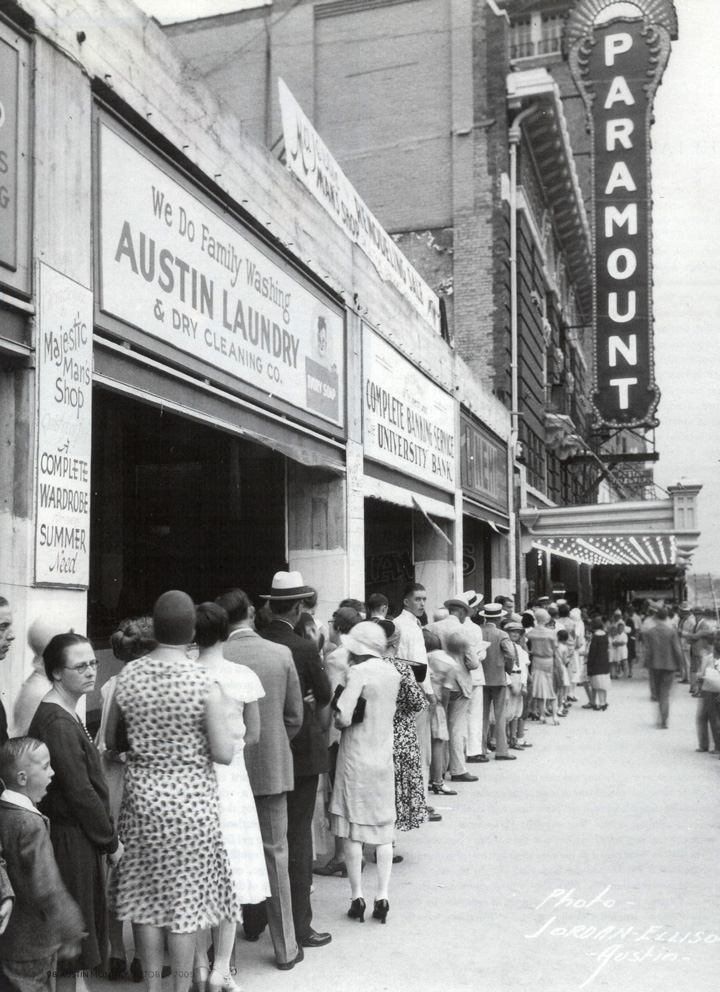
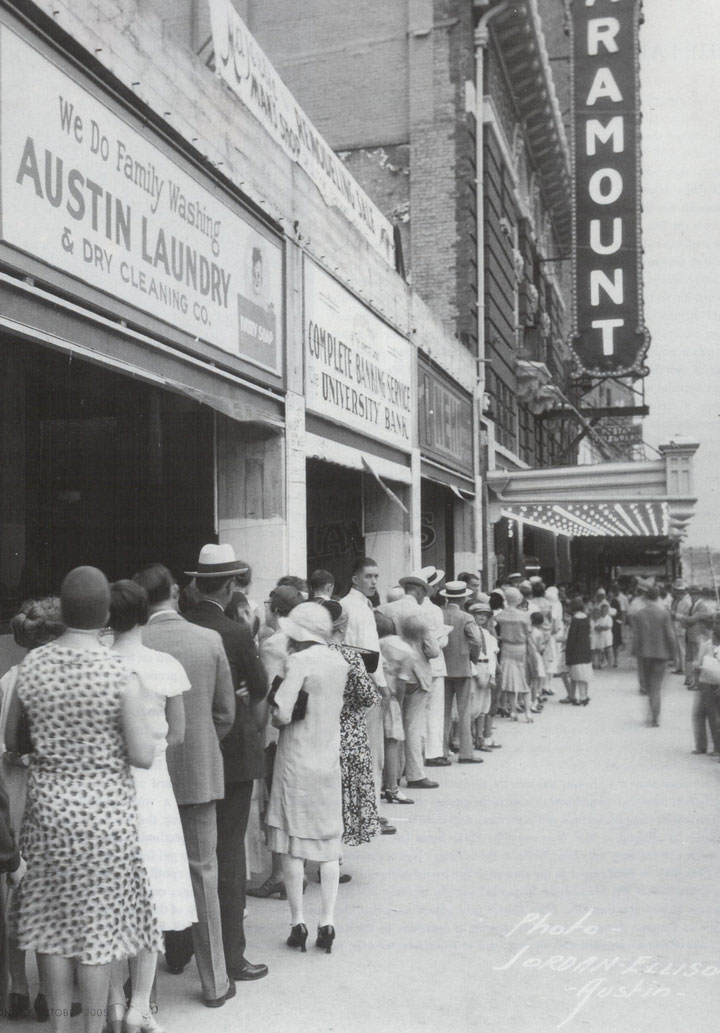
updating photos and crops

diff --git a/README.md b/README.md
@@ -1,9 +1,11 @@
-Paramount: Then and now template
+Then and now: Paramount
 =================================
+
+# This is a derivative of the then-and-now template
 
 [![Built with Grunt](https://cdn.gruntjs.com/builtwith.png)](http://gruntjs.com/)
 
-This project will become a new then-and-now template for Statesman. It uses the [twentytwenty](https://github.com/zurb/twentytwenty) package from Zurb.
+This is a new then-and-now template for Statesman. It uses the [twentytwenty](https://github.com/zurb/twentytwenty) package from Zurb.
 
 ## Requirements
 
@@ -13,25 +15,39 @@ This project will become a new then-and-now template for Statesman. It uses the 
 
 ## Setup
 
-When the template repo is made (and it isn't yet):
+* Download the zip to your machine
+* unzip it into the directory of your choosing
+
+At this point, you should be able to view the content through a browser in your localhost, as all the necessary files are in:
+
+* `dist/`: css and js files
+* `assets/`: example images and other assets
+* `index.php`: the content
+
+To make your project dev ready:
 
 ```
-$ curl -OL https://github.com/statesman/then-and-now/archive/master.zip
-$ unzip master.zip -d YOUR_PROJECT_NAME
-$ cd YOUR_PROJECT_NAME
+$ npm install
+$ bower install
+$ grunt
 ```
+
+Any change to files in `src` will require the grunt default task to update files in `dist/`.
+
 
 ## Usage
 
-`assets/`: where you put the photos you want in your slider.
-
-`src/js/`: JavaScript files that Grunt will concatenate, Uglify and save in `dist/scripts.js`
-
-`src/css/`: `less` files that Grunt will transpile into CSS in `dist/style.css`
-
-`index.php`: the only page in the file to start with. There is a php array of meta tags at the top. It also utilizes files in `includes`.
+`index.php`: the only published viewing page in the project. There is a php array of meta tags at the top. It also utilizes files in `includes`.
 
 `includes`: where partial files are stored for advertising and ads. The two files that need to be edited:
 
   * `project-metrics.inc`: where to set metrics.
   * `advertising.inc`: where to change advertising, FWIW
+  * Update `assets/share.jpg` to something appropriate for your project.
+
+`assets/`: where you put the photos and other assets you want in your sliders.
+
+`src/js/`: JavaScript files that Grunt will concatenate, Uglify and save in `dist/scripts.js`
+
+`src/css/`: `less` files that Grunt will transpile into CSS in `dist/style.css`
+
